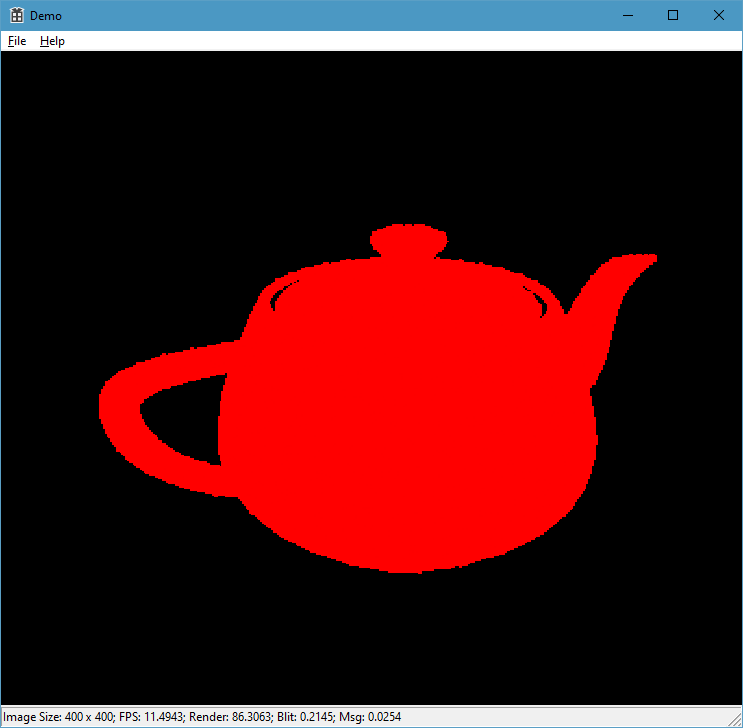
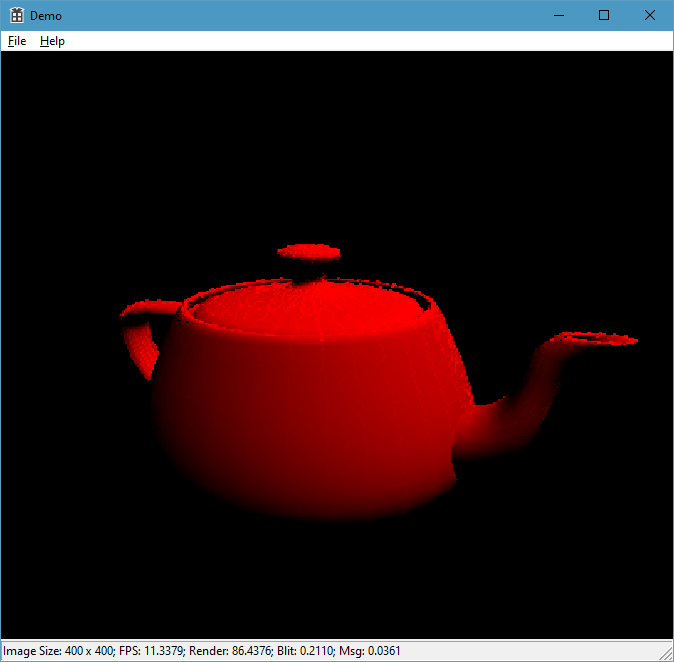
Get a basic directional light to work.  Unfortunately, there is some strange artifacting going on and some pixel dancing.  The dancing goes away when single-threaded, which is disheartening.  I don't see why it shouldn't be consistent.  Not sure how to account for the artifacting and occasional z-bu

Changed region(s): [[0.1246, 0.3021, 0.9347, 0.7855], [0.0, 0.0, 1.0, 0.9668], [0.0, 0.9668, 0.997, 0.997]]

diff --git a/Source/Renderer.cpp b/Source/Renderer.cpp
@@ -1,6 +1,7 @@
 #include "Renderer.h"
 #include "Vector.h"
 #include "FileAssets/Image.h"
+#include "LightSource.h"
 #include "Vertex.h"
 #include "Triangle.h"
 #include "Plane.h"
@@ -13,6 +14,7 @@ Renderer::Renderer()
 	this->frameBuffer = nullptr;
 	this->depthBuffer = nullptr;
 	this->jobCount = new std::atomic<unsigned int>(0);
+	this->lightSource = &this->defaultLightSource;
 }
 
 /*virtual*/ Renderer::~Renderer()
@@ -66,6 +68,8 @@ void Renderer::SubmitJob(RenderJob* job)
 // TODO: We'll need an opaque pass and a translucency pass.
 void Renderer::BeginRenderPass()
 {
+	this->lightSource->PrepareForRender(this->pipelineMatrices);
+
 	// Each thread works with their own copy of the framebuffer and z-buffer.
 	// Trying to synchronize shared access to a single framebuffer/z-buffer is not practical as far as I can see.
 	// So what we do is let each thread work independently and then composite the final framebuffer/z-buffer at the end of the pass.
@@ -324,19 +328,33 @@ Renderer::TriangleRenderJob::TriangleRenderJob()
 				Vector baryCoords;
 				triangle.CalcBarycentricCoordinates(trianglePoint, baryCoords);
 
-				Vector interpolatedColor =
-					vertexA.color * baryCoords.x +
-					vertexB.color * baryCoords.y +
-					vertexC.color * baryCoords.z;
-
+				LightSource::SurfaceProperties surfaceProperties;
+#if 0
 				Vector interpolatedTexCoords =
 					vertexA.texCoords * baryCoords.x +
 					vertexB.texCoords * baryCoords.y +
-					vertexC.texCoords * baryCoords.z;	// TODO: Do something with this.  Will it look correct?
+					vertexC.texCoords * baryCoords.z;
 
-				unsigned char r = (unsigned char)FRUMPY_CLAMP(int(interpolatedColor.x * 255.0), 0, 255);
-				unsigned char g = (unsigned char)FRUMPY_CLAMP(int(interpolatedColor.y * 255.0), 0, 255);
-				unsigned char b = (unsigned char)FRUMPY_CLAMP(int(interpolatedColor.z * 255.0), 0, 255);
+				surfaceProperties.diffuseColor = TODO: Sample from texture here.
+#else
+				surfaceProperties.diffuseColor =
+					vertexA.color * baryCoords.x +
+					vertexB.color * baryCoords.y +
+					vertexC.color * baryCoords.z;
+#endif
+				surfaceProperties.normal =
+					vertexA.cameraSpaceNormal * baryCoords.x +
+					vertexB.cameraSpaceNormal * baryCoords.y +
+					vertexC.cameraSpaceNormal * baryCoords.z;
+
+				surfaceProperties.normal.Normalize();
+
+				Vector surfaceColor;
+				thread->renderer->lightSource->CalcSurfaceColor(surfaceProperties, surfaceColor);
+
+				unsigned char r = (unsigned char)FRUMPY_CLAMP(int(surfaceColor.x * 255.0), 0, 255);
+				unsigned char g = (unsigned char)FRUMPY_CLAMP(int(surfaceColor.y * 255.0), 0, 255);
+				unsigned char b = (unsigned char)FRUMPY_CLAMP(int(surfaceColor.z * 255.0), 0, 255);
 
 				uint32_t color = frameBuffer->MakeColor(r, g, b, 0);	// TODO: What about alpha here?
 				frameBuffer->SetPixel(location, color);

diff --git a/Demo/Demo.cpp b/Demo/Demo.cpp
@@ -28,6 +28,7 @@ Demo::Demo()
     this->image = nullptr;
     this->depthBuffer = nullptr;
     this->renderer = nullptr;
+    this->directionLight = nullptr;
     this->rotationAngle = 0.0;
     this->rotationRate = 20.0;
     this->lastMouseMove = -1;
@@ -69,9 +70,14 @@ bool Demo::Setup(HINSTANCE hInstance, int nCmdShow)
 
     this->depthBuffer = new Frumpy::Image(this->image->GetWidth(), this->image->GetHeight());
 
+    this->directionLight = new Frumpy::DirectionalLight();
+    this->directionLight->directionWorldSpace.SetComponents(-0.5, -1.0, 0.0);
+    this->directionLight->directionWorldSpace.Normalize();
+
     this->renderer = new Frumpy::Renderer();
     this->renderer->SetFramebuffer(this->image);
     this->renderer->SetDepthBuffer(this->depthBuffer);
+    this->renderer->SetLightSource(this->directionLight);
     this->renderer->Startup(10);
 
     this->scene = new Frumpy::Scene();
@@ -156,7 +162,7 @@ void Demo::Run()
 
         // Let the user control the camera.
         this->HandleKeyboardInput(deltaTimeSeconds);
-
+#if 0
         // Animate our mesh by rotating it at a desired rate.
         Frumpy::MeshObject* teapotObject = (Frumpy::MeshObject*)this->scene->FindObjectByName("teapot");
         if (teapotObject)
@@ -165,7 +171,7 @@ void Demo::Run()
             Frumpy::Vector axis(0.0, 1.0, 0.0);
             teapotObject->childToParent.Rotation(axis, FRUMPY_DEGS_TO_RADS(this->rotationAngle));
         }
-
+#endif
         // Render a frame directly into the windows BMP memory.
         if (this->renderer && this->camera && this->scene)
         {
@@ -233,6 +239,12 @@ int Demo::Shutdown()
     {
         delete this->depthBuffer;
         this->depthBuffer = nullptr;
+    }
+
+    if (this->directionLight)
+    {
+        delete this->directionLight;
+        this->directionLight = nullptr;
     }
 
     this->assetList.Delete();

diff --git a/Source/LightSources/DirectionalLight.cpp b/Source/LightSources/DirectionalLight.cpp
@@ -1,0 +1,30 @@
+#include "DirectionalLight.h"
+
+using namespace Frumpy;
+
+DirectionalLight::DirectionalLight()
+{
+	this->directionWorldSpace.SetComponents(0.0, -1.0, 0.0);
+}
+
+/*virtual*/ DirectionalLight::~DirectionalLight()
+{
+}
+
+/*virtual*/ void DirectionalLight::PrepareForRender(const PipelineMatrices& pipelineMatrices) const
+{
+	pipelineMatrices.worldToCamera.TransformVector(this->directionWorldSpace, this->directionCameraSpace);
+}
+
+/*virtual*/ void DirectionalLight::CalcSurfaceColor(const SurfaceProperties& surfaceProperties, Vector& surfaceColor) const
+{
+	double dot = Vector::Dot(surfaceProperties.normal, this->directionCameraSpace);
+	if (dot < 0.0)
+		surfaceColor = surfaceProperties.diffuseColor * -dot * this->mainIntensity;
+
+	surfaceColor += surfaceProperties.diffuseColor * this->ambientIntensity;
+
+	surfaceColor.x = FRUMPY_CLAMP(surfaceColor.x, 0.0, 1.0);
+	surfaceColor.y = FRUMPY_CLAMP(surfaceColor.y, 0.0, 1.0);
+	surfaceColor.z = FRUMPY_CLAMP(surfaceColor.z, 0.0, 1.0);
+}

diff --git a/Source/Renderer.h b/Source/Renderer.h
@@ -3,6 +3,7 @@
 #include "Defines.h"
 #include "List.h"
 #include "Matrix.h"
+#include "LightSources/AmbientLight.h"
 #include <mutex>
 #include <thread>
 #include <semaphore>
@@ -12,6 +13,7 @@ namespace Frumpy
 {
 	class Vertex;
 	class Image;
+	class LightSource;
 
 	class FRUMPY_API Renderer
 	{
@@ -77,13 +79,16 @@ namespace Frumpy
 
 			List<RenderJob*> renderJobQueue;
 			std::mutex renderJobQueueMutex;
-			std::counting_semaphore<1000> renderJobQueueSemaphore;
+			std::counting_semaphore<7000> renderJobQueueSemaphore;
 			std::thread* thread;
 			bool exitSignaled;
 			Renderer* renderer;
 			Image* frameBuffer;
 			Image* depthBuffer;
 		};
+
+		void SetLightSource(LightSource* lightSource) { this->lightSource = lightSource; }
+		LightSource* GeLightSource() { return this->lightSource; }
 
 	private:
 
@@ -93,5 +98,7 @@ namespace Frumpy
 		Image* frameBuffer;
 		Image* depthBuffer;
 		std::atomic<unsigned int>* jobCount;
+		LightSource* lightSource;
+		AmbientLight defaultLightSource;
 	};
 }

diff --git a/Source/LightSources/SpotLight.cpp b/Source/LightSources/SpotLight.cpp
@@ -1,0 +1,25 @@
+#include "SpotLight.h"
+
+using namespace Frumpy;
+
+SpotLight::SpotLight()
+{
+	this->locationWorldSpace.SetComponents(0.0, 0.0, 0.0);
+	this->directionWorldSpace.SetComponents(1.0, 0.0, 0.0);
+	this->attenuationRadius = 10.0;
+}
+
+/*virtual*/ SpotLight::~SpotLight()
+{
+}
+
+/*virtual*/ void SpotLight::PrepareForRender(const PipelineMatrices& pipelineMatrices) const
+{
+	pipelineMatrices.worldToCamera.TransformPoint(this->locationWorldSpace, this->locationCameraSpace);
+	pipelineMatrices.worldToCamera.TransformVector(this->directionWorldSpace, this->directionCameraSpace);
+}
+
+/*virtual*/ void SpotLight::CalcSurfaceColor(const SurfaceProperties& surfaceProperties, Vector& surfaceColor) const
+{
+	// TODO: Write this stupid code.  It's all stupid.
+}

diff --git a/Source/LightSources/AmbientLight.cpp b/Source/LightSources/AmbientLight.cpp
@@ -1,0 +1,25 @@
+#include "AmbientLight.h"
+
+using namespace Frumpy;
+
+AmbientLight::AmbientLight()
+{
+	this->ambientIntensity = 1.0;
+}
+
+/*virtual*/ AmbientLight::~AmbientLight()
+{
+}
+
+/*virtual*/ void AmbientLight::PrepareForRender(const PipelineMatrices& pipelineMatrices) const
+{
+}
+
+/*virtual*/ void AmbientLight::CalcSurfaceColor(const SurfaceProperties& surfaceProperties, Vector& surfaceColor) const
+{
+	surfaceColor = surfaceProperties.diffuseColor * this->ambientIntensity;
+
+	surfaceColor.x = FRUMPY_CLAMP(surfaceColor.x, 0.0, 1.0);
+	surfaceColor.y = FRUMPY_CLAMP(surfaceColor.y, 0.0, 1.0);
+	surfaceColor.z = FRUMPY_CLAMP(surfaceColor.z, 0.0, 1.0);
+}

diff --git a/Source/LightSources/SpotLight.h b/Source/LightSources/SpotLight.h
@@ -1,0 +1,24 @@
+#pragma once
+
+#include "../LightSource.h"
+#include "../Vector.h"
+
+namespace Frumpy
+{
+	class FRUMPY_API SpotLight : public LightSource
+	{
+	public:
+		SpotLight();
+		virtual ~SpotLight();
+
+		virtual void PrepareForRender(const PipelineMatrices& pipelineMatrices) const override;
+		virtual void CalcSurfaceColor(const SurfaceProperties& surfaceProperties, Vector& surfaceColor) const override;
+
+		Frumpy::Vector locationWorldSpace;
+		Frumpy::Vector directionWorldSpace;
+		double attenuationRadius;
+
+		mutable Frumpy::Vector locationCameraSpace;
+		mutable Frumpy::Vector directionCameraSpace;
+	};
+}

diff --git a/Source/LightSource.h b/Source/LightSource.h
@@ -1,0 +1,27 @@
+#pragma once
+
+#include "Defines.h"
+#include "Matrix.h"
+#include "Vector.h"
+
+namespace Frumpy
+{
+	class FRUMPY_API LightSource
+	{
+	public:
+		LightSource();
+		virtual ~LightSource();
+
+		struct SurfaceProperties
+		{
+			Vector diffuseColor;
+			Vector normal;
+		};
+
+		virtual void PrepareForRender(const PipelineMatrices& pipelineMatrices) const = 0;
+		virtual void CalcSurfaceColor(const SurfaceProperties& surfaceProperties, Vector& surfaceColor) const = 0;
+
+		double mainIntensity;
+		double ambientIntensity;
+	};
+}

diff --git a/Source/LightSources/DirectionalLight.h b/Source/LightSources/DirectionalLight.h
@@ -1,0 +1,20 @@
+#pragma once
+
+#include "../LightSource.h"
+#include "../Vector.h"
+
+namespace Frumpy
+{
+	class FRUMPY_API DirectionalLight : public LightSource
+	{
+	public:
+		DirectionalLight();
+		virtual ~DirectionalLight();
+
+		virtual void PrepareForRender(const PipelineMatrices& pipelineMatrices) const override;
+		virtual void CalcSurfaceColor(const SurfaceProperties& surfaceProperties, Vector& surfaceColor) const override;
+
+		Frumpy::Vector directionWorldSpace;
+		mutable Frumpy::Vector directionCameraSpace;
+	};
+}

diff --git a/Demo/Demo.h b/Demo/Demo.h
@@ -5,6 +5,7 @@
 #include "Camera.h"
 #include "FileAssets/Image.h"
 #include "FileAssets/Mesh.h"
+#include "LightSources/DirectionalLight.h"
 #include "Renderer.h"
 #include "ProfileBlock.h"
 #include "Vector.h"
@@ -46,6 +47,7 @@ private:
 	Frumpy::Image* image;
 	Frumpy::Image* depthBuffer;
 	Frumpy::Renderer* renderer;
+	Frumpy::DirectionalLight* directionLight;
 	Frumpy::List<Frumpy::FileFormat::Asset*> assetList;
 	double rotationAngle;
 	double rotationRate;

diff --git a/Source/LightSources/AmbientLight.h b/Source/LightSources/AmbientLight.h
@@ -1,0 +1,17 @@
+#pragma once
+
+#include "../LightSource.h"
+#include "../Vector.h"
+
+namespace Frumpy
+{
+	class FRUMPY_API AmbientLight : public LightSource
+	{
+	public:
+		AmbientLight();
+		virtual ~AmbientLight();
+
+		virtual void PrepareForRender(const PipelineMatrices& pipelineMatrices) const override;
+		virtual void CalcSurfaceColor(const SurfaceProperties& surfaceProperties, Vector& surfaceColor) const override;
+	};
+}

diff --git a/Source/SceneObjects/MeshObject.cpp b/Source/SceneObjects/MeshObject.cpp
@@ -32,6 +32,7 @@ MeshObject::MeshObject()
 		const Vertex& vertex = *this->mesh->GetVertex(i);
 		objectToImage.TransformPoint(vertex.objectSpacePoint, vertex.imageSpacePoint);
 		objectToCamera.TransformPoint(vertex.objectSpacePoint, vertex.cameraSpacePoint);
+		objectToCamera.TransformVector(vertex.objectSpaceNormal, vertex.cameraSpaceNormal);
 	}
 
 	for (unsigned int i = 0; i < this->mesh->GetIndexBufferSize(); i += 3)
